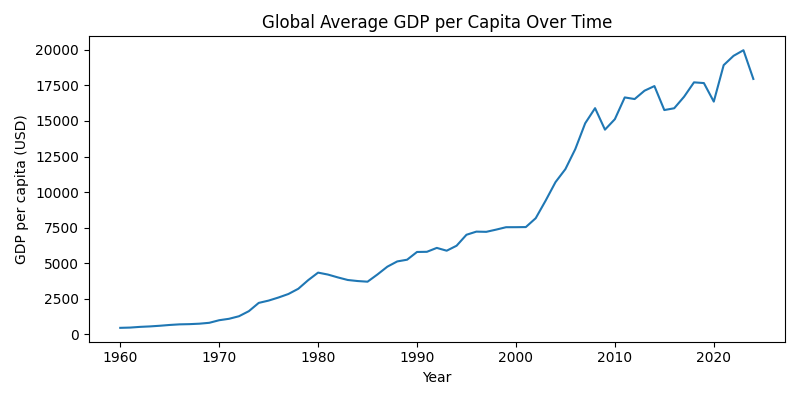
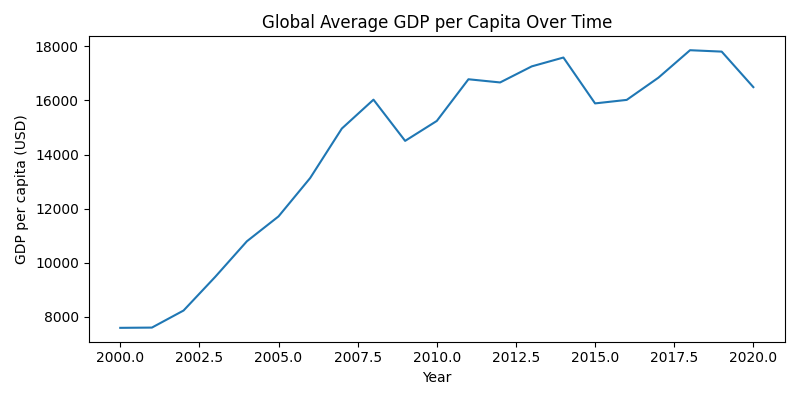
chore: Finalize project documentation and repository cleanup

diff --git a/src/main.py b/src/main.py
@@ -1,72 +1,52 @@
-from src.load_wb_data import load_gdp_per_capita_from_csv
+import pandas as pd
+from src.load_wb_data import load_gdp_data # CRITICAL: Import the unified loader
 from src.demo_data import load_demo_data, analyze_demo_data, print_countries
 from src.analysis import analyze_worldbank_data
 from src.visualization import plot_global_gdp_trend
 from src.models import GDPRegion
 
-def show_worldbank_preview():
+def show_worldbank_analysis():
     """
-    Load the World Bank GDP per capita dataset using pandas
-    and print a clean preview, including:
-    - first five rows
-    - number of rows
-    - column names
+    Load the World Bank GDP per capita dataset using the unified loader
+    (API/filtering) and execute the full analysis pipeline.
     """
+    
+    # 1. Load data using the unified, filtered function (API is default)
+    df = load_gdp_data(use_api=True) # Use the correct, filtered function
 
-    filepath = "data/worldbank_gdp_per_capita.csv"
-    df = load_gdp_per_capita_from_csv(filepath)
+    if df is None or df.empty:
+        print("\nFATAL ERROR: World Bank data could not be loaded or is empty.")
+        return
 
-    print("\n=== WORLD BANK GDP PER CAPITA: PREVIEW ===")
-    print(df.head())
-    print(f"\nNumber of rows: {len(df)}")
-    print(f"Columns: {list(df.columns)}")
+    print("\n\n=== WORLD BANK DATASET LOADED ===")
+    print(f"Number of clean country-year observations: {len(df):,}")
+    print(f"Columns: {list(df.columns)}\n")
 
-    # New: run a simple pandas + numpy analysis
+    # 2. Run the main analysis (prints stats to terminal)
     analyze_worldbank_data(df)
 
-    # New: create and save a plot
+    # 3. Create and save a plot (Visualization C6)
     plot_global_gdp_trend(df)
 
-
-def show_worldbank_preview():
-    """
-    Load the World Bank GDP per capita dataset using pandas
-    and print a clean preview, including:
-    - first five rows
-    - number of rows
-    - column names
-    """
-
-    filepath = "data/worldbank_gdp_per_capita.csv"
-    df = load_gdp_per_capita_from_csv(filepath)
-
-    print("\n=== WORLD BANK GDP PER CAPITA: PREVIEW ===")
-    print(df.head())
-    print(f"\nNumber of rows: {len(df)}")
-    print(f"Columns: {list(df.columns)}")
-
-    # Run a simple pandas + numpy analysis
-    analyze_worldbank_data(df)
-
-    # Create and save a plot
-    plot_global_gdp_trend(df)
-
-    # --- OOP demo: build a few GDPRegion objects ---
-    sample_rows = df.head(5)
+    # --- 4. OOP Demo: Build and inspect GDPRegion objects ---
+    # Sample a few rows for the demonstration
+    sample_rows = df.sample(5)
 
     regions = [
         GDPRegion(
-            region_code=row["region_code"],
-            region_name=row["region_name"],
-            year=int(row["year"]),
-            gdp_per_capita=float(row["gdp_per_capita"]),
+            region_code=row.region_code,
+            region_name=row.region_name,
+            year=int(row.year),
+            gdp_per_capita=float(row.gdp_per_capita),
         )
-        for _, row in sample_rows.iterrows()
+        for row in sample_rows.itertuples(index=False)
     ]
 
-    print("\n=== Example GDPRegion objects ===")
+    print("\n=== Example GDPRegion objects (OOP Demo) ===")
     for r in regions:
-        print(r, "| high income:", r.is_high_income())
+        # Uses __repr__ and is_high_income() methods
+        print(f"{r} | high income: {r.is_high_income()}")
+
 
 def main():
     """
@@ -78,23 +58,23 @@ def main():
     - GDP trend visualisation (matplotlib)
     """
 
-    print("Welcome to 'The Wealth of Nations' project!")
+    print("Welcome to 'The Wealth of Nations' project! (CLI Mode)")
 
+    # 1. Run pure Python demo (C1)
     filepath = "data/demo_countries.csv"
     data = load_demo_data(filepath)
 
     if not data:
-        print("No data loaded. Exiting program.")
-        return
+        print("Demo data not loaded. Skipping pure Python analysis.")
+    else:
+        print("\n--- Running Pure Python Demo ---")
+        print_countries(data)
+        analyze_demo_data(data)
 
-    print("Demo data loaded successfully.")
-    print_countries(data)
-    analyze_demo_data(data)
-
-    # New: also show the World Bank dataset
-    show_worldbank_preview()
-
+    # 2. Run the World Bank analysis pipeline (C3, C4, C5, C6)
+    show_worldbank_analysis()
 
 
 if __name__ == "__main__":
-    main() 
+    main()
+    

diff --git a/src/load_wb_data.py b/src/load_wb_data.py
@@ -1,15 +1,15 @@
 import requests
 import pandas as pd
 from typing import Optional
-from src.grouping import GroupClassifier
+from src.grouping import GroupClassifier # CRITICAL: This is used for filtering
 
 
 # --- CONSTANT ---
 GDP_INDICATOR = "NY.GDP.PCAP.CD"
 
 
-# --- 1. CSV LOADING (Kept from your original file for fallback) ---
-def load_gdp_per_capita_from_csv(filepath):
+# --- 1. CSV LOADING (Kept for robust fallback) ---
+def load_gdp_per_capita_from_csv(filepath: str) -> pd.DataFrame:
     """
     Load GDP per capita data from the World Bank SDMX-style CSV.
     """
@@ -30,7 +30,7 @@ def load_gdp_per_capita_from_csv(filepath):
         }
     )
 
-    # 4. Convert year to integer
+    # 4. Convert year to integer and handle errors/NaT
     df["year"] = pd.to_numeric(df["year"], errors="coerce")
     df = df.dropna(subset=["year"])
     df["year"] = df["year"].astype(int)
@@ -39,10 +39,10 @@ def load_gdp_per_capita_from_csv(filepath):
     df["gdp_per_capita"] = pd.to_numeric(df["gdp_per_capita"], errors="coerce")
     df = df.dropna(subset=["gdp_per_capita"])
 
-    return df[["region_code", "region_name", "year", "gdp_per_capita"]]
+    return df[["region_code", "region_name", "year", "gdp_per_capita"]].copy() # Added .copy()
 
 
-# --- 2. API FETCHING (Your new function using requests) ---
+# --- 2. API FETCHING (Uses requests - C3) ---
 def fetch_gdp_per_capita_from_api(
     start_year: int, 
     end_year: int,
@@ -52,7 +52,6 @@ def fetch_gdp_per_capita_from_api(
     Fetch GDP per capita data (NY.GDP.PCAP.CD) from the World Bank API
     for all regions over a specified time range.
     """
-    # 1. Construct the API URL
     url = (
         f"http://api.worldbank.org/v2/country/all/indicator/{indicator}"
         f"?date={start_year}:{end_year}&format=json&per_page=10000"
@@ -68,7 +67,7 @@ def fetch_gdp_per_capita_from_api(
         print(f"Error fetching data from World Bank API: {e}")
         return None
 
-    # 3. Process the JSON response
+    # 3. Process the JSON response (skip metadata)
     data = response.json()
     if len(data) < 2 or data[1] is None:
         print("API returned no data or an unexpected format.")
@@ -76,7 +75,7 @@ def fetch_gdp_per_capita_from_api(
 
     records = data[1]
 
-    # 4. Flatten the JSON structure for the DataFrame
+    # 4. Flatten the JSON structure and process records
     processed_records = []
     for record in records:
         if record is not None and record.get("value") is not None:
@@ -87,12 +86,12 @@ def fetch_gdp_per_capita_from_api(
                 "gdp_per_capita": record["value"] 
             })
 
-    # 5. Convert to DataFrame and clean
+    # 5. Convert to DataFrame and final initial cleanup
     df = pd.DataFrame(processed_records)
     df["gdp_per_capita"] = pd.to_numeric(df["gdp_per_capita"], errors="coerce")
     df = df.dropna(subset=["gdp_per_capita"]) 
     
-    return df[['region_code', 'region_name', 'year', 'gdp_per_capita']]
+    return df[['region_code', 'region_name', 'year', 'gdp_per_capita']].copy() # Added .copy()
 
 
 # --- 3. UNIFIED LOADING & FILTERING (Final function for analysis) ---
@@ -112,14 +111,15 @@ def load_gdp_data(use_api: bool = True) -> Optional[pd.DataFrame]:
         print("Data loading failed.")
         return None
 
-    # --- CRITICAL FILTERING STEPS ---
+    # --- CRITICAL FILTERING STEPS (Uses src/grouping.py) ---
     
     # 2. Classify: Use the GroupClassifier to identify aggregates
     classifier = GroupClassifier()
     df["group_type"] = df["region_name"].apply(classifier.classify) 
 
     # 3. Filter: Keep only the individual countries (tagged as 'other' by the classifier)
-    df = df[df["group_type"] == "other"].copy()
+    # FIX: Added .copy() for safety/no-warning guarantee
+    df = df[df["group_type"] == "other"].copy() 
 
     # 4. Rename: Change the 'other' tag to 'country' for clarity
     df["group_type"] = "country"

diff --git a/src/grouping.py b/src/grouping.py
@@ -1,21 +1,18 @@
 class GroupClassifier:
     """
     Classify a region_name into one of several categories used in the project.
-
-    Categories:
-        - 'geographic'
-        - 'income_group'
-        - 'demographic_group'
-        - 'other' (used for individual countries)
-
-    In the main data-loading step (load_wb_data.py), we keep only entries
-    classified as 'other', which correspond to country-level observations.
-    These are later relabeled as 'country'.
+    ...
     """
 
     def __init__(self):
         # Predefined group sets
         self.geographic_regions = {
+            # --- CRITICAL ADDITIONS ---
+            "Arab World", # MISSING AGGREGATE
+            "World", # MISSING AGGREGATE
+            "Least Developed Countries", # MISSING AGGREGATE
+            "Fragile and conflict affected situations", # MISSING AGGREGATE
+            # --- END CRITICAL ADDITIONS ---
             "Africa Eastern and Southern",
             "Africa Western and Central",
             "East Asia & Pacific",
@@ -36,6 +33,10 @@ class GroupClassifier:
             "Upper middle income",
             "Lower middle income",
             "Low income",
+            # --- CRITICAL ADDITIONS ---
+            "IDA countries", # MISSING AGGREGATE (International Development Association)
+            "IBRD countries", # MISSING AGGREGATE (International Bank for Reconstruction and Development)
+            # --- END CRITICAL ADDITIONS ---
         }
 
         self.demographic_groups = {

diff --git a/src/visualization.py b/src/visualization.py
@@ -20,14 +20,17 @@ def plot_global_gdp_trend(df: pd.DataFrame) -> None:
     # Compute global average per year
     yearly_avg = df.groupby("year")["gdp_per_capita"].mean()
 
-    plt.figure(figsize=(8, 4))
-    plt.plot(yearly_avg.index, yearly_avg.values)
-    plt.title("Global Average GDP per Capita Over Time")
-    plt.xlabel("Year")
-    plt.ylabel("GDP per capita (USD)")
+# Use Object-Oriented Interface (Creation of fig and ax)
+    fig, ax = plt.subplots(figsize=(8, 4))
+    
+    # Plotting is done on the ax object
+    ax.plot(yearly_avg.index, yearly_avg.values)
+    ax.set_title("Global Average GDP per Capita Over Time")
+    ax.set_xlabel("Year")
+    ax.set_ylabel("GDP per capita (USD)")
+    
     plt.tight_layout()
 
-    # Save the figure to a file
+    # Save the figure object
     output_path = "data/global_gdp_trend.png"
-    plt.savefig(output_path)
-    print(f"\nSaved plot to {output_path}")
+    fig.savefig(output_path) # Save the figure object (fig)

diff --git a/src/analysis.py b/src/analysis.py
@@ -35,8 +35,10 @@ def analyze_worldbank_data(df: pd.DataFrame) -> None:
     top5 = latest_df.nlargest(5, "gdp_per_capita")[["region_name", "gdp_per_capita"]]
 
     print(f"\nTop 5 regions in {latest_year} by GDP per capita:")
-    for _, row in top5.iterrows():
-        print(f" - {row['region_name']}: {row['gdp_per_capita']:,.2f} USD")
+    for i in range(len(top5)):
+        region = top5.iloc[i]["region_name"]
+        gdp = top5.iloc[i]["gdp_per_capita"]
+        print(f" - {region}: {gdp:,.2f} USD")
 
 
 # ---------- New helper functions for Streamlit ----------

diff --git a/README.md b/README.md
@@ -122,6 +122,10 @@ Skills Demonstrated:
 - Modular architecture
 - Streamlit (interactive UI)
 
+
+Methodology Notes:
+Generative AI was utilized for compiling comprehensive, non-country aggregate lists for the GroupClassifier and for refining docstrings/comments."
+
 Author:
 
 Stela Mile
